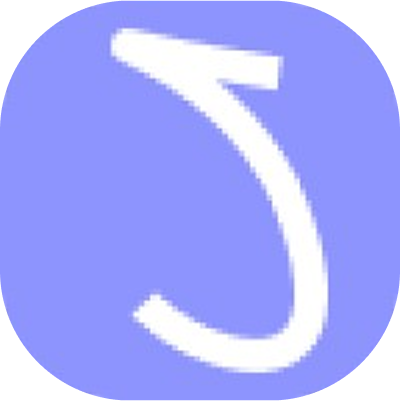
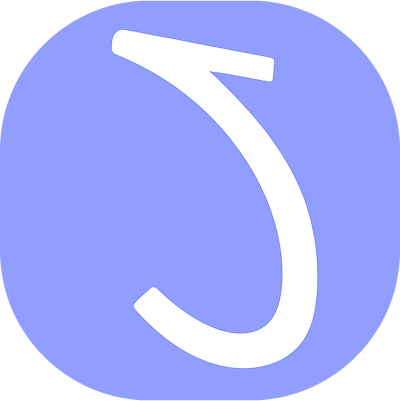
Updated Images

diff --git a/components/home-page-sections/intro.jsx b/components/home-page-sections/intro.jsx
@@ -8,7 +8,7 @@ export default function Intro() {
     <section className={styles.body}>
       <div className={styles.mainContainer}>
         <Image
-          src="/images/github.png"
+          src="/images/David.png"
           className={styles.profileImg}
           width={450}
           height={450}

diff --git a/components/home-page-sections/projects.jsx b/components/home-page-sections/projects.jsx
@@ -16,7 +16,7 @@ export default function Experience() {
     },
     {
         id: "journally-icon",
-        color: "rgba(141, 148, 254, 1)",
+        color: "rgba(146, 158, 255, 1)",
         // color: "rgba(255, 255, 255, 1)",
         img: "/images/journally.png",
         // img: "/images/github.png",
